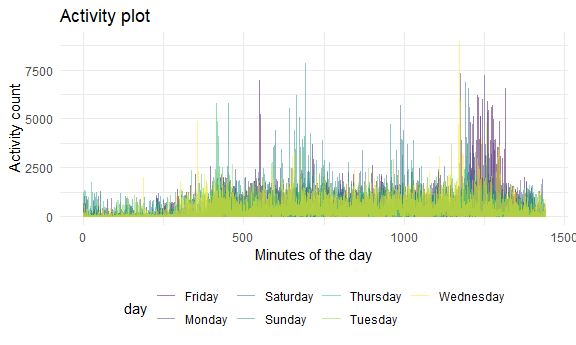
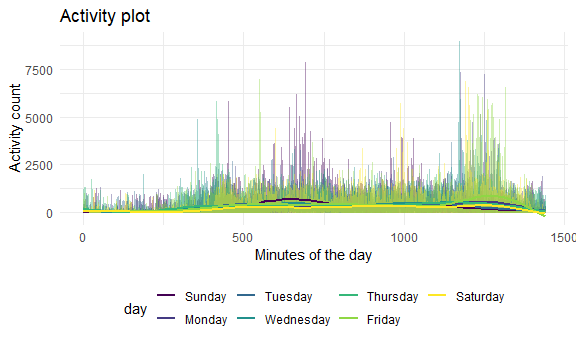
Problem 2: knit and complete.

diff --git a/p8105_hw3_ps3147.md b/p8105_hw3_ps3147.md
@@ -135,6 +135,12 @@ accel_df =
 
     ## See spec(...) for full column specifications.
 
+``` r
+accel_df =
+   mutate(accel_df,
+   day = fct_relevel(day, "Sunday", "Monday", "Tuesday", "Wednesday", "Thursday", "Friday", "Saturday"))
+```
+
 This dataset based on “accelerometer data” contains 50400 rows and 6
 columns. The dataset consists information on 5 weeks of recorded
 activity counts based on an accelerometer activity, by the minute of
@@ -144,7 +150,6 @@ Table of activity per day.
 
 ``` r
 accel_df %>%
- ## day = fct_reorder(day)##
   group_by(week, day) %>% 
     summarize(total_daily_activity = sum(activity_count)) %>% 
   pivot_wider(
@@ -157,13 +162,13 @@ accel_df %>%
 
     ## # A tibble: 5 x 8
     ## # Groups:   week [5]
-    ##    week  Friday  Monday Saturday Sunday Thursday Tuesday Wednesday
-    ##   <dbl>   <dbl>   <dbl>    <dbl>  <dbl>    <dbl>   <dbl>     <dbl>
-    ## 1     1 480543.  78828.   376254 631105  355924. 307094.   340115.
-    ## 2     2 568839  295431    607175 422018  474048  423245    440962 
-    ## 3     3 467420  685910    382928 467052  371230  381507    468869 
-    ## 4     4 154049  409450      1440 260617  340291  319568    434460 
-    ## 5     5 620860  389080      1440 138421  549658  367824    445366
+    ##    week Sunday  Monday Tuesday Wednesday Thursday  Friday Saturday
+    ##   <dbl>  <dbl>   <dbl>   <dbl>     <dbl>    <dbl>   <dbl>    <dbl>
+    ## 1     1 631105  78828. 307094.   340115.  355924. 480543.   376254
+    ## 2     2 422018 295431  423245    440962   474048  568839    607175
+    ## 3     3 467052 685910  381507    468869   371230  467420    382928
+    ## 4     4 260617 409450  319568    434460   340291  154049      1440
+    ## 5     5 138421 389080  367824    445366   549658  620860      1440
 
 There seems to be least activity on Saturdays in weeks 4 and 5. Middle
 of the weeks on Tuesdays through Thursdays showed the most consistent
@@ -173,18 +178,30 @@ Graph of 24-hr activity for each day.
 
 ``` r
 accel_df %>% 
-  group_by(day_id) %>% 
+   group_by(day_id) %>% 
   ggplot(aes(x = min_of_the_day, y = activity_count, color = day)) + 
-  geom_line(alpha = .5) + 
+  geom_line(alpha = .4) + 
   labs(
     title = "Activity plot",
     x = "Minutes of the day",
     y = "Activity count"
      ) +
+  geom_smooth(aes(group = day), se = FALSE)
+```
+
+    ## `geom_smooth()` using method = 'gam' and formula 'y ~ s(x, bs = "cs")'
+
+<img src="p8105_hw3_ps3147_files/figure-gfm/unnamed-chunk-7-1.png" width="90%" />
+
+``` r
   theme(legend.position = "bottom")
 ```
 
-<img src="p8105_hw3_ps3147_files/figure-gfm/unnamed-chunk-7-1.png" width="90%" />
+    ## List of 1
+    ##  $ legend.position: chr "bottom"
+    ##  - attr(*, "class")= chr [1:2] "theme" "gg"
+    ##  - attr(*, "complete")= logi FALSE
+    ##  - attr(*, "validate")= logi TRUE
 
 The graphs seems fairly consistent in pattern for all given days in a
 week. Starting at 0 min, indicating midnight, there seems to be minimal
